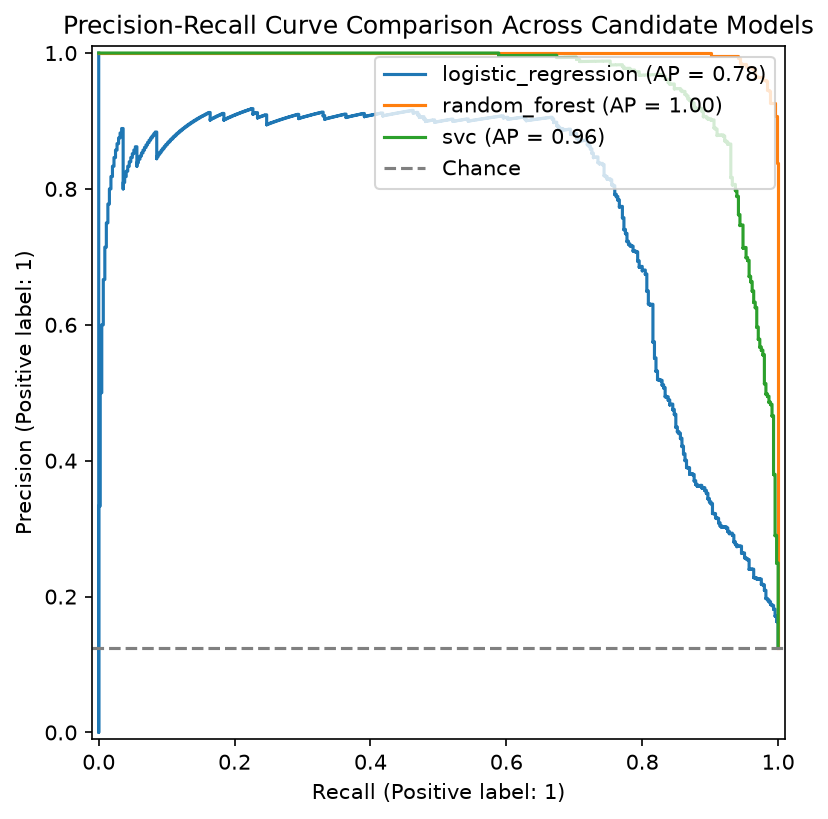
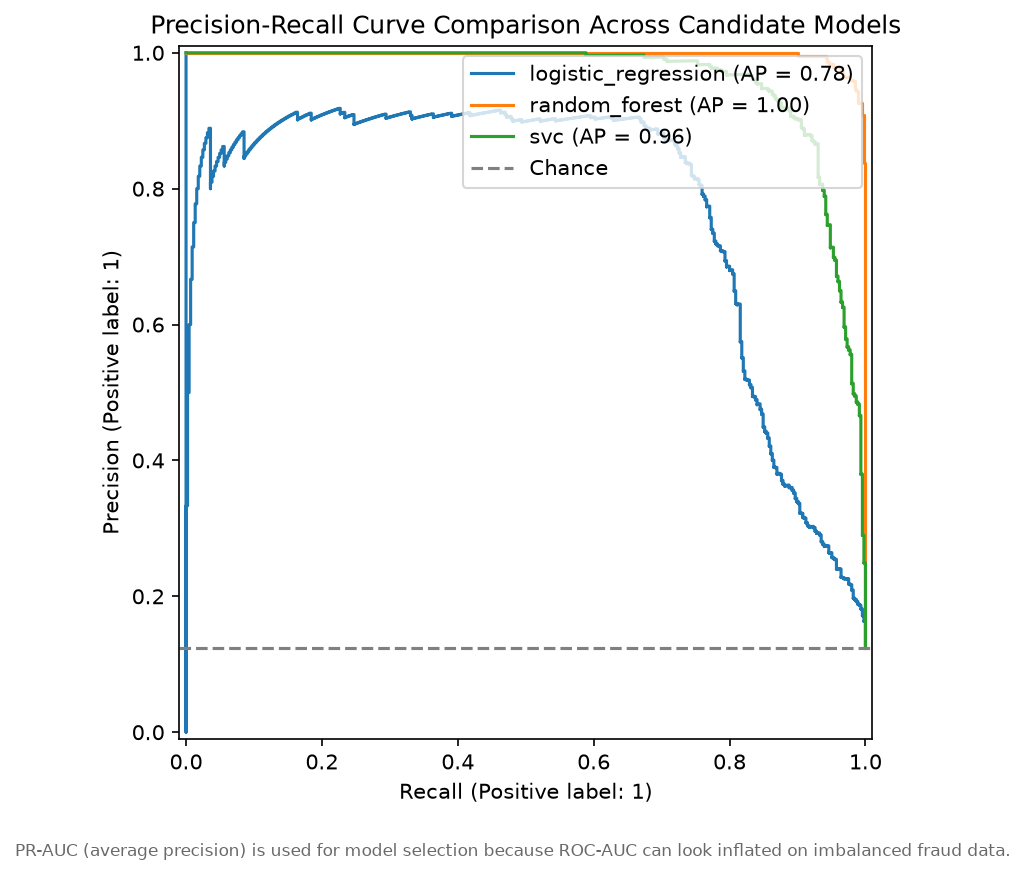
Add explanatory caption to PR comparison plot

diff --git a/notebooks/roc_comparison.py b/notebooks/roc_comparison.py
@@ -66,6 +66,14 @@ def main() -> None:
     pr_ax.axhline(fraud_rate, linestyle="--", color="gray", label="Chance")
     pr_ax.set_title("Precision-Recall Curve Comparison Across Candidate Models")
     pr_ax.legend(loc="upper right")
+    # A curve staying near precision=1.0 until a late drop indicates strong performance;
+    # this "flat-then-drop" shape is expected for imbalanced fraud data, not an artifact.
+    pr_fig.text(
+        0.5, -0.02,
+        "PR-AUC (average precision) is used for model selection because ROC-AUC "
+        "can look inflated on imbalanced fraud data.",
+        ha="center", fontsize=8, color="dimgray",
+    )
 
     OUTPUT_DIR.mkdir(parents=True, exist_ok=True)
     roc_fig.savefig(ROC_OUTPUT_FILE, dpi=150, bbox_inches="tight")
